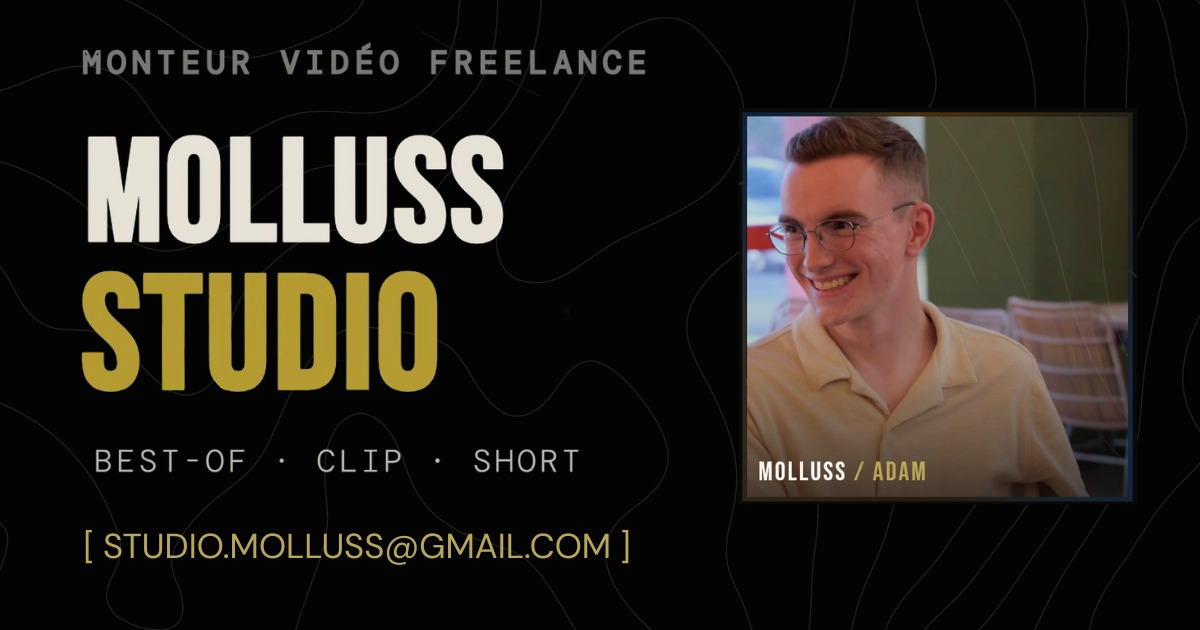
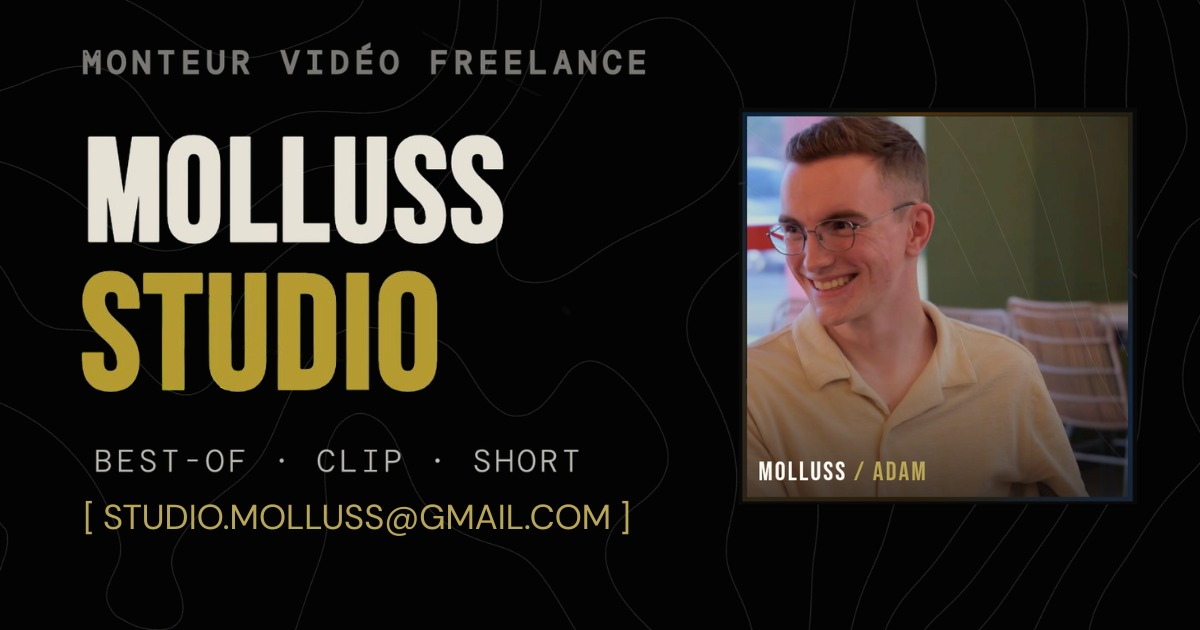
Carte de partage : utilise l'image short 2 des assets.

Changed region(s): [[0.0617, 0.7841, 0.5242, 0.9048]]

diff --git a/rdv.html b/rdv.html
@@ -11,8 +11,8 @@
   <meta property="og:url" content="https://www.molluss-studio.fr/rdv.html">
   <meta property="og:title" content="Prendre rendez-vous — Molluss Studio">
   <meta property="og:description" content="Prenez rendez-vous avec Molluss Studio — montage vidéo freelance. Réservez un créneau via Calendly.">
-  <meta property="og:image" content="https://www.molluss-studio.fr/assets/og-card.jpg?v=3">
-  <meta property="og:image:secure_url" content="https://www.molluss-studio.fr/assets/og-card.jpg?v=3">
+  <meta property="og:image" content="https://www.molluss-studio.fr/assets/og-card.jpg?v=4">
+  <meta property="og:image:secure_url" content="https://www.molluss-studio.fr/assets/og-card.jpg?v=4">
   <meta property="og:image:type" content="image/jpeg">
   <meta property="og:image:width" content="1200">
   <meta property="og:image:height" content="630">
@@ -23,7 +23,7 @@
   <meta name="twitter:url" content="https://www.molluss-studio.fr/rdv.html">
   <meta name="twitter:title" content="Prendre rendez-vous — Molluss Studio">
   <meta name="twitter:description" content="Prenez rendez-vous avec Molluss Studio — montage vidéo freelance. Réservez un créneau via Calendly.">
-  <meta name="twitter:image" content="https://www.molluss-studio.fr/assets/og-card.jpg?v=3">
+  <meta name="twitter:image" content="https://www.molluss-studio.fr/assets/og-card.jpg?v=4">
   <meta name="twitter:image:alt" content="Prendre rendez-vous — Molluss Studio, montage vidéo freelance">
   <link rel="preconnect" href="https://fonts.googleapis.com">
   <link rel="preconnect" href="https://fonts.gstatic.com" crossorigin>

diff --git a/cgv.html b/cgv.html
@@ -11,8 +11,8 @@
   <meta property="og:url" content="https://www.molluss-studio.fr/cgv.html">
   <meta property="og:title" content="Conditions générales de vente — Molluss Studio">
   <meta property="og:description" content="Conditions générales de vente et termes de prestation de Molluss Studio.">
-  <meta property="og:image" content="https://www.molluss-studio.fr/assets/og-card.jpg?v=3">
-  <meta property="og:image:secure_url" content="https://www.molluss-studio.fr/assets/og-card.jpg?v=3">
+  <meta property="og:image" content="https://www.molluss-studio.fr/assets/og-card.jpg?v=4">
+  <meta property="og:image:secure_url" content="https://www.molluss-studio.fr/assets/og-card.jpg?v=4">
   <meta property="og:image:type" content="image/jpeg">
   <meta property="og:image:width" content="1200">
   <meta property="og:image:height" content="630">
@@ -23,7 +23,7 @@
   <meta name="twitter:url" content="https://www.molluss-studio.fr/cgv.html">
   <meta name="twitter:title" content="Conditions générales de vente — Molluss Studio">
   <meta name="twitter:description" content="Conditions générales de vente et termes de prestation de Molluss Studio.">
-  <meta name="twitter:image" content="https://www.molluss-studio.fr/assets/og-card.jpg?v=3">
+  <meta name="twitter:image" content="https://www.molluss-studio.fr/assets/og-card.jpg?v=4">
   <meta name="twitter:image:alt" content="Molluss Studio — Montage vidéo freelance">
   <link rel="preconnect" href="https://fonts.googleapis.com">
   <link rel="preconnect" href="https://fonts.gstatic.com" crossorigin>

diff --git a/politique-confidentialite.html b/politique-confidentialite.html
@@ -11,8 +11,8 @@
   <meta property="og:url" content="https://www.molluss-studio.fr/politique-confidentialite.html">
   <meta property="og:title" content="Politique de confidentialité — Molluss Studio">
   <meta property="og:description" content="Politique de confidentialité du site Molluss Studio.">
-  <meta property="og:image" content="https://www.molluss-studio.fr/assets/og-card.jpg?v=3">
-  <meta property="og:image:secure_url" content="https://www.molluss-studio.fr/assets/og-card.jpg?v=3">
+  <meta property="og:image" content="https://www.molluss-studio.fr/assets/og-card.jpg?v=4">
+  <meta property="og:image:secure_url" content="https://www.molluss-studio.fr/assets/og-card.jpg?v=4">
   <meta property="og:image:type" content="image/jpeg">
   <meta property="og:image:width" content="1200">
   <meta property="og:image:height" content="630">
@@ -23,7 +23,7 @@
   <meta name="twitter:url" content="https://www.molluss-studio.fr/politique-confidentialite.html">
   <meta name="twitter:title" content="Politique de confidentialité — Molluss Studio">
   <meta name="twitter:description" content="Politique de confidentialité du site Molluss Studio.">
-  <meta name="twitter:image" content="https://www.molluss-studio.fr/assets/og-card.jpg?v=3">
+  <meta name="twitter:image" content="https://www.molluss-studio.fr/assets/og-card.jpg?v=4">
   <meta name="twitter:image:alt" content="Molluss Studio — Montage vidéo freelance">
   <link rel="preconnect" href="https://fonts.googleapis.com">
   <link rel="preconnect" href="https://fonts.gstatic.com" crossorigin>

diff --git a/index.html b/index.html
@@ -12,8 +12,8 @@
   <meta property="og:url" content="https://www.molluss-studio.fr">
   <meta property="og:title" content="Molluss Studio">
   <meta property="og:description" content="Portfolio Molluss Studio — Montage vidéo freelance. Best-of, clips et shorts pour créateurs.">
-  <meta property="og:image" content="https://www.molluss-studio.fr/assets/og-card.jpg?v=3">
-  <meta property="og:image:secure_url" content="https://www.molluss-studio.fr/assets/og-card.jpg?v=3">
+  <meta property="og:image" content="https://www.molluss-studio.fr/assets/og-card.jpg?v=4">
+  <meta property="og:image:secure_url" content="https://www.molluss-studio.fr/assets/og-card.jpg?v=4">
   <meta property="og:image:type" content="image/jpeg">
   <meta property="og:image:width" content="1200">
   <meta property="og:image:height" content="630">
@@ -25,7 +25,7 @@
   <meta name="twitter:url" content="https://www.molluss-studio.fr">
   <meta name="twitter:title" content="Molluss Studio">
   <meta name="twitter:description" content="Portfolio Molluss Studio — Montage vidéo freelance. Best-of, clips et shorts pour créateurs.">
-  <meta name="twitter:image" content="https://www.molluss-studio.fr/assets/og-card.jpg?v=3">
+  <meta name="twitter:image" content="https://www.molluss-studio.fr/assets/og-card.jpg?v=4">
   <meta name="twitter:image:alt" content="Portfolio Molluss Studio — Montage vidéo freelance">
   <link rel="preconnect" href="https://fonts.googleapis.com">
   <link rel="preconnect" href="https://fonts.gstatic.com" crossorigin>

diff --git a/mentions-legales.html b/mentions-legales.html
@@ -11,8 +11,8 @@
   <meta property="og:url" content="https://www.molluss-studio.fr/mentions-legales.html">
   <meta property="og:title" content="Mentions légales — Molluss Studio">
   <meta property="og:description" content="Mentions légales du site Molluss Studio.">
-  <meta property="og:image" content="https://www.molluss-studio.fr/assets/og-card.jpg?v=3">
-  <meta property="og:image:secure_url" content="https://www.molluss-studio.fr/assets/og-card.jpg?v=3">
+  <meta property="og:image" content="https://www.molluss-studio.fr/assets/og-card.jpg?v=4">
+  <meta property="og:image:secure_url" content="https://www.molluss-studio.fr/assets/og-card.jpg?v=4">
   <meta property="og:image:type" content="image/jpeg">
   <meta property="og:image:width" content="1200">
   <meta property="og:image:height" content="630">
@@ -23,7 +23,7 @@
   <meta name="twitter:url" content="https://www.molluss-studio.fr/mentions-legales.html">
   <meta name="twitter:title" content="Mentions légales — Molluss Studio">
   <meta name="twitter:description" content="Mentions légales du site Molluss Studio.">
-  <meta name="twitter:image" content="https://www.molluss-studio.fr/assets/og-card.jpg?v=3">
+  <meta name="twitter:image" content="https://www.molluss-studio.fr/assets/og-card.jpg?v=4">
   <meta name="twitter:image:alt" content="Molluss Studio — Montage vidéo freelance">
   <link rel="preconnect" href="https://fonts.googleapis.com">
   <link rel="preconnect" href="https://fonts.gstatic.com" crossorigin>
